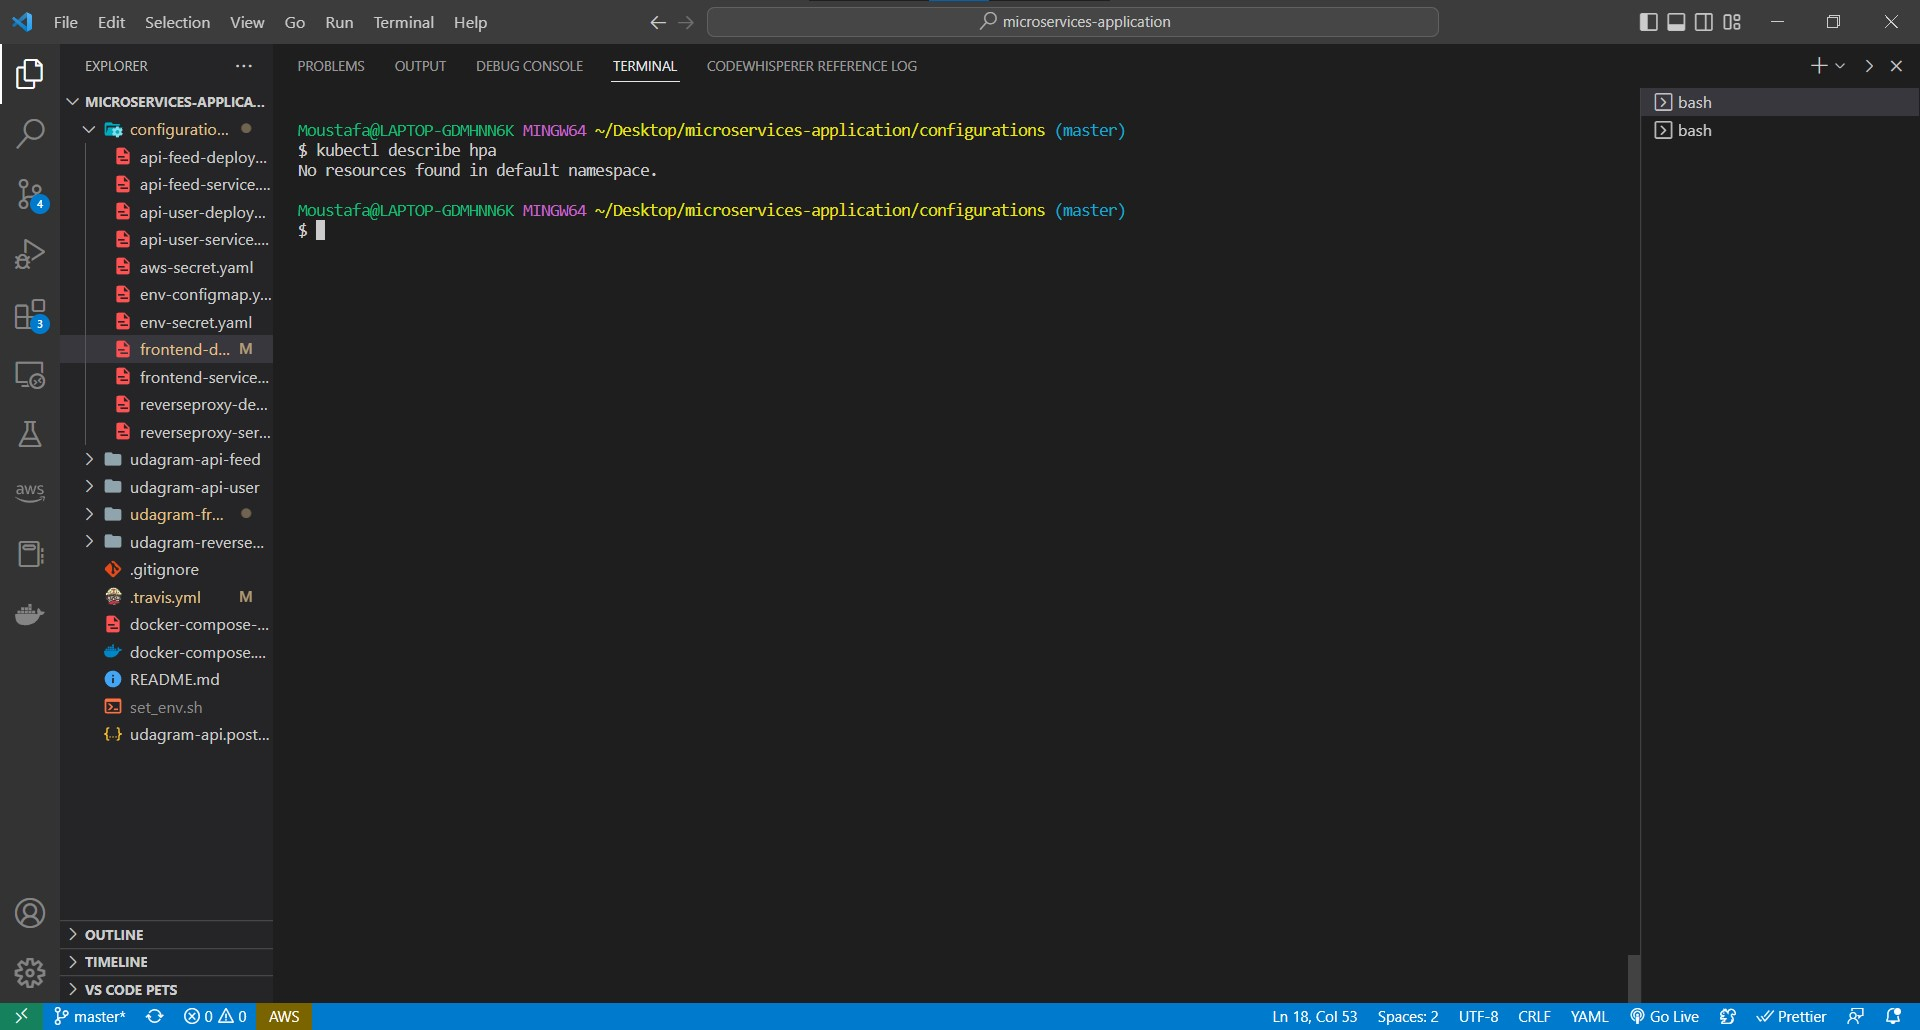
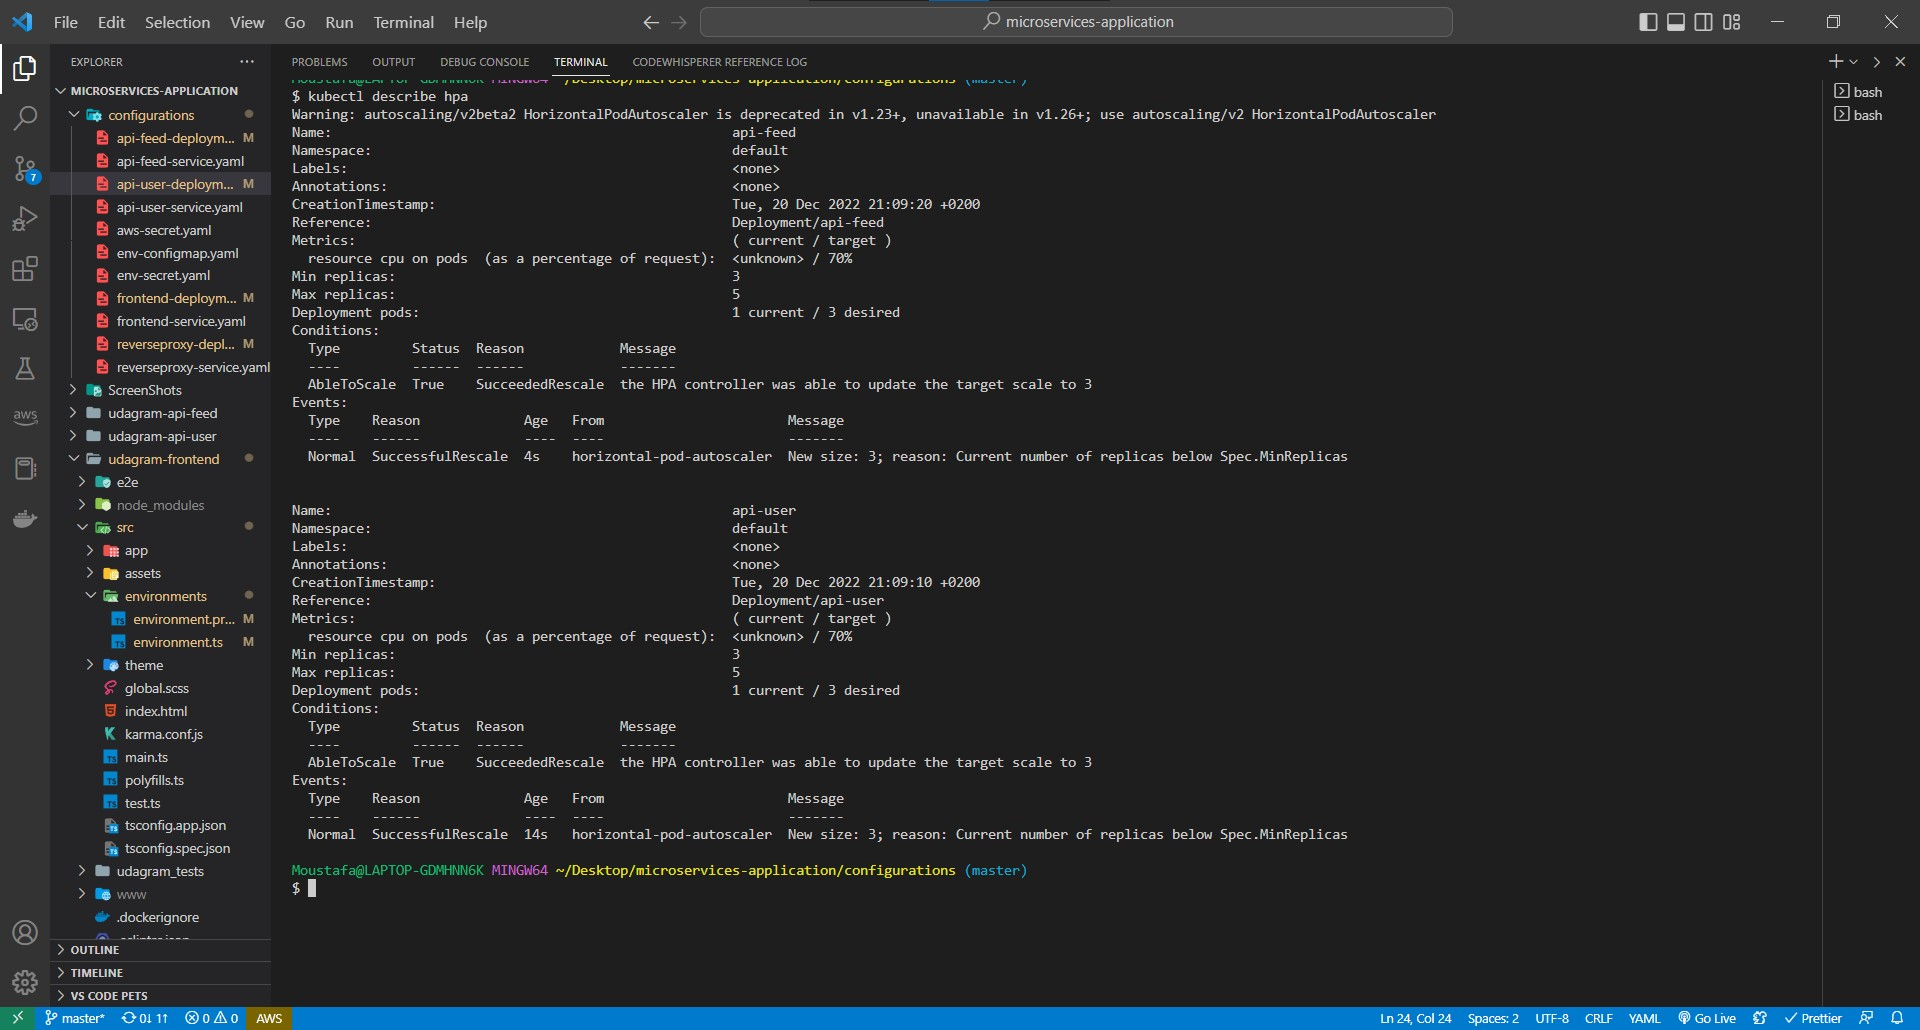
clashbackoff error solved + screenshots updated

diff --git a/udagram-frontend/src/environments/environment.prod.ts b/udagram-frontend/src/environments/environment.prod.ts
@@ -6,7 +6,7 @@ export const environment = {
   production: false,
   appName: "Udagram",
   apiHost:
-    "http://a02585d87d5354ecf80ccb122e831bb8-1984262925.us-east-1.elb.amazonaws.com:8080/api/v0",
+    "http://a19579e13018c4b5ab8a0b0b0bbb21f8-1535265557.us-east-1.elb.amazonaws.com:8080/api/v0",
 };
 
 /*

diff --git a/udagram-frontend/src/environments/environment.ts b/udagram-frontend/src/environments/environment.ts
@@ -6,7 +6,7 @@ export const environment = {
   production: false,
   appName: "Udagram",
   apiHost:
-    "http://a02585d87d5354ecf80ccb122e831bb8-1984262925.us-east-1.elb.amazonaws.com:8080/api/v0",
+    "http://a19579e13018c4b5ab8a0b0b0bbb21f8-1535265557.us-east-1.elb.amazonaws.com:8080/api/v0",
 };
 
 /*
